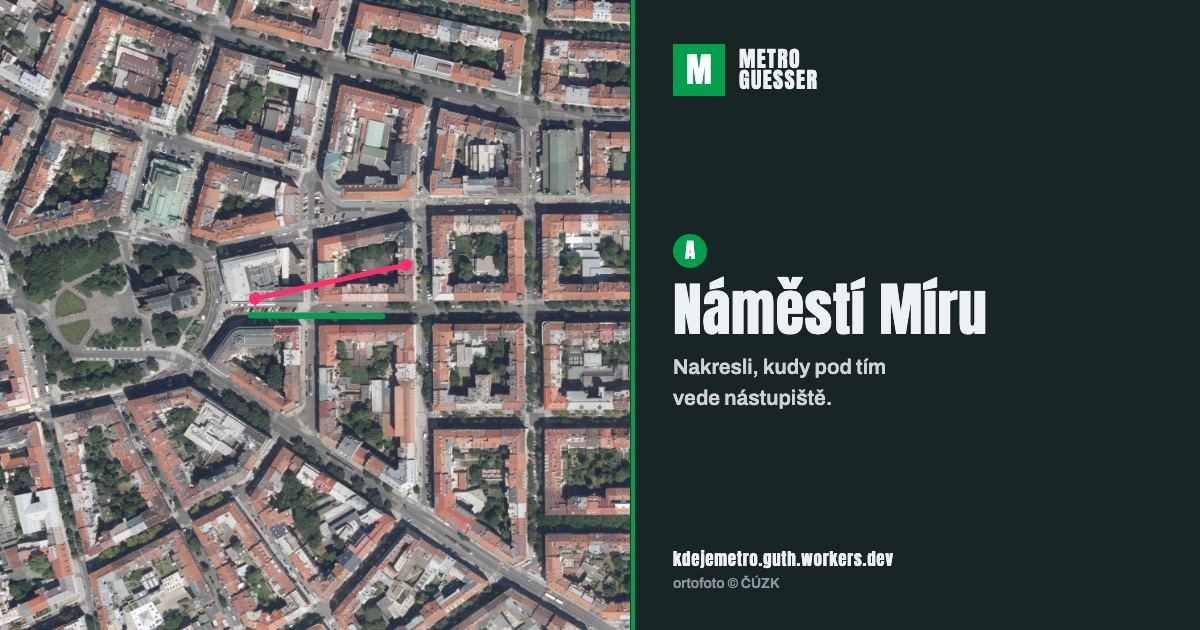
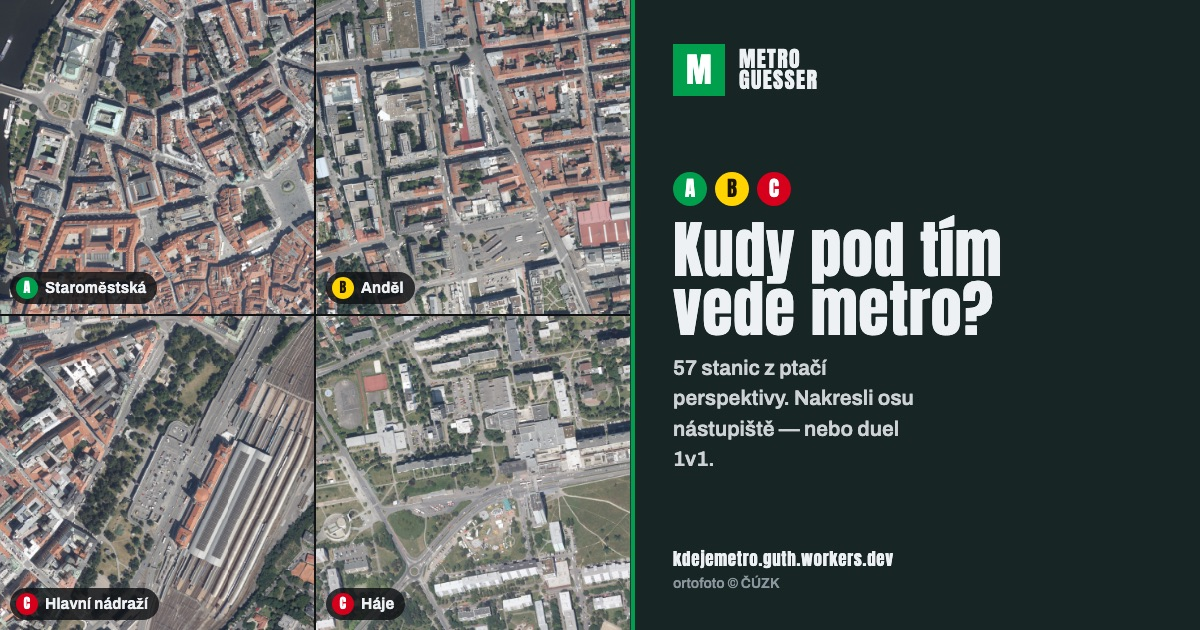
feat(og): náhled bez odpovědi — mřížka čtyř stanic
Původní OG ukazoval nakreslenou osu nástupiště Náměstí Míru, tedy
rovnou správné řešení. Místo toho mřížka 2×2 leteckých snímků
(Staroměstská, Anděl, Hlavní nádraží, Háje) bez jakékoli čáry.

Všechny čtyři jsou podzemní: u nadzemních stanic je nástupiště na
snímku vidět a otázka "kudy vede pod tím" ztrácí smysl.

diff --git a/web/index.html b/web/index.html
@@ -30,7 +30,7 @@
   <meta property="og:image" content="https://kdejemetro.guth.workers.dev/og.jpg">
   <meta property="og:image:width" content="1200">
   <meta property="og:image:height" content="630">
-  <meta property="og:image:alt" content="Letecký snímek náměstí Míru s nakreslenou osou nástupiště linky A.">
+  <meta property="og:image:alt" content="Mřížka čtyř leteckých snímků pražských stanic metra s otázkou, kudy pod nimi vede nástupiště.">
   <meta name="twitter:card" content="summary_large_image">
   <meta name="twitter:image" content="https://kdejemetro.guth.workers.dev/og.jpg">
 </head>
